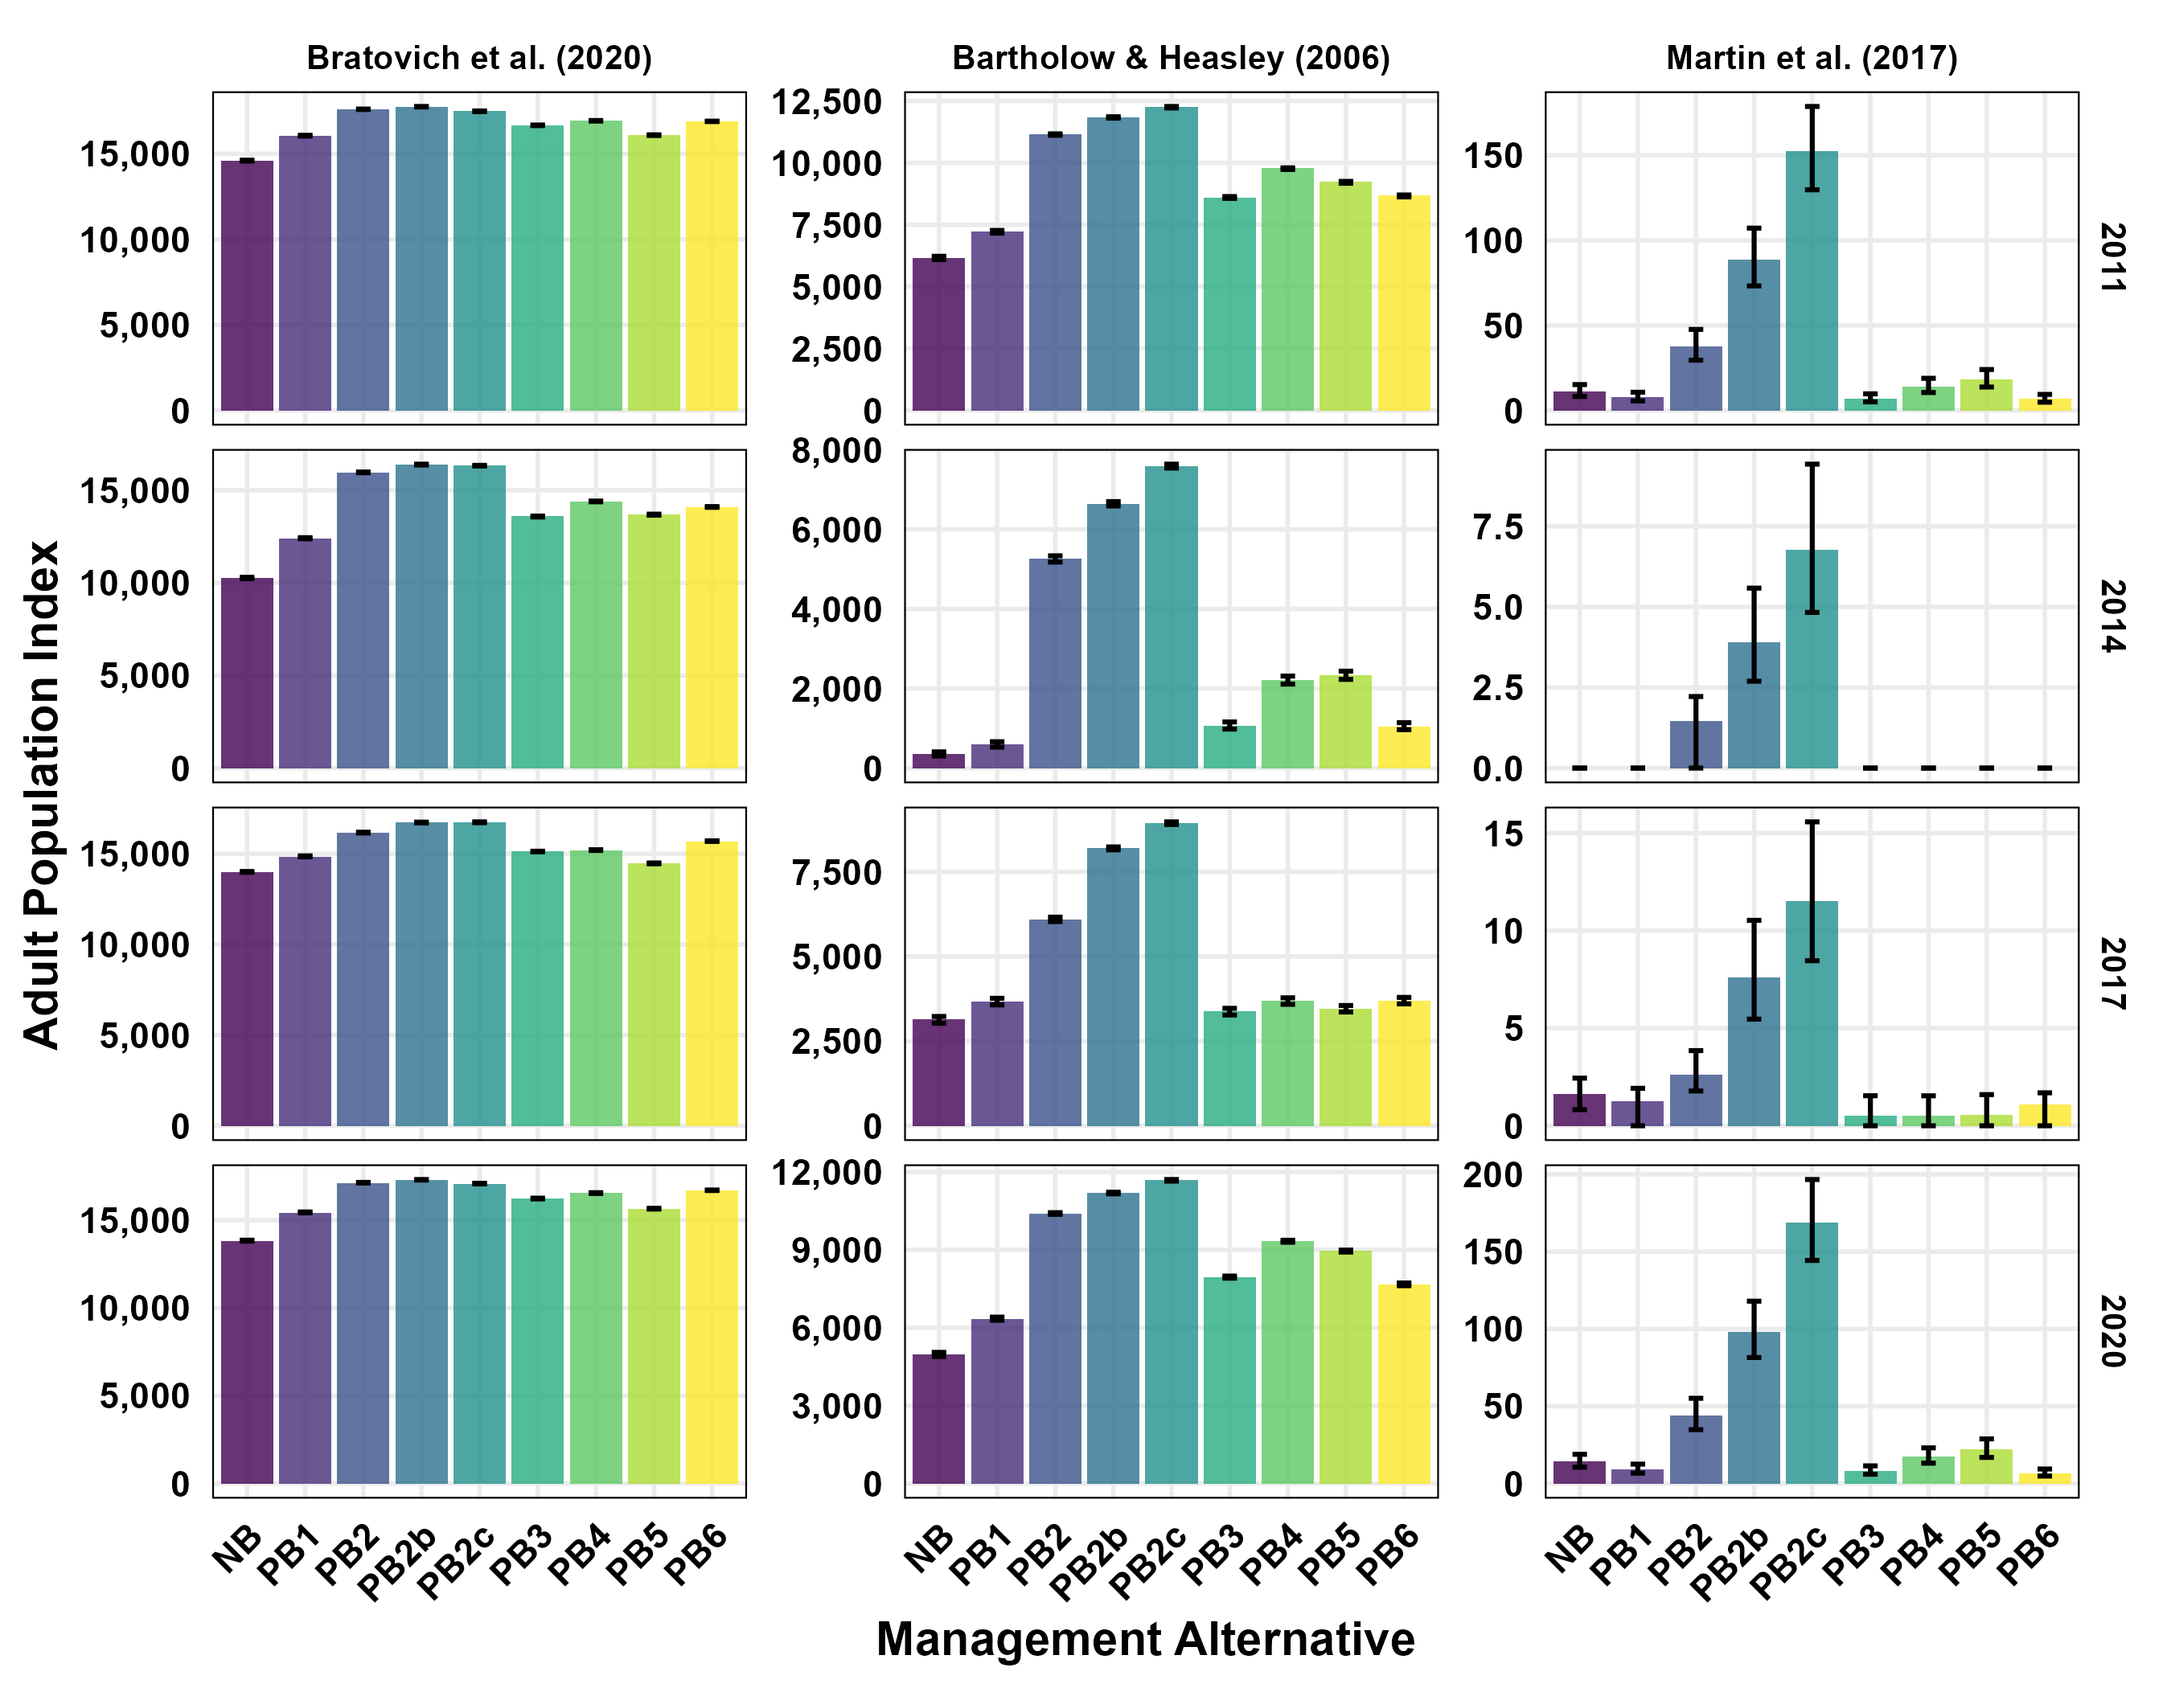
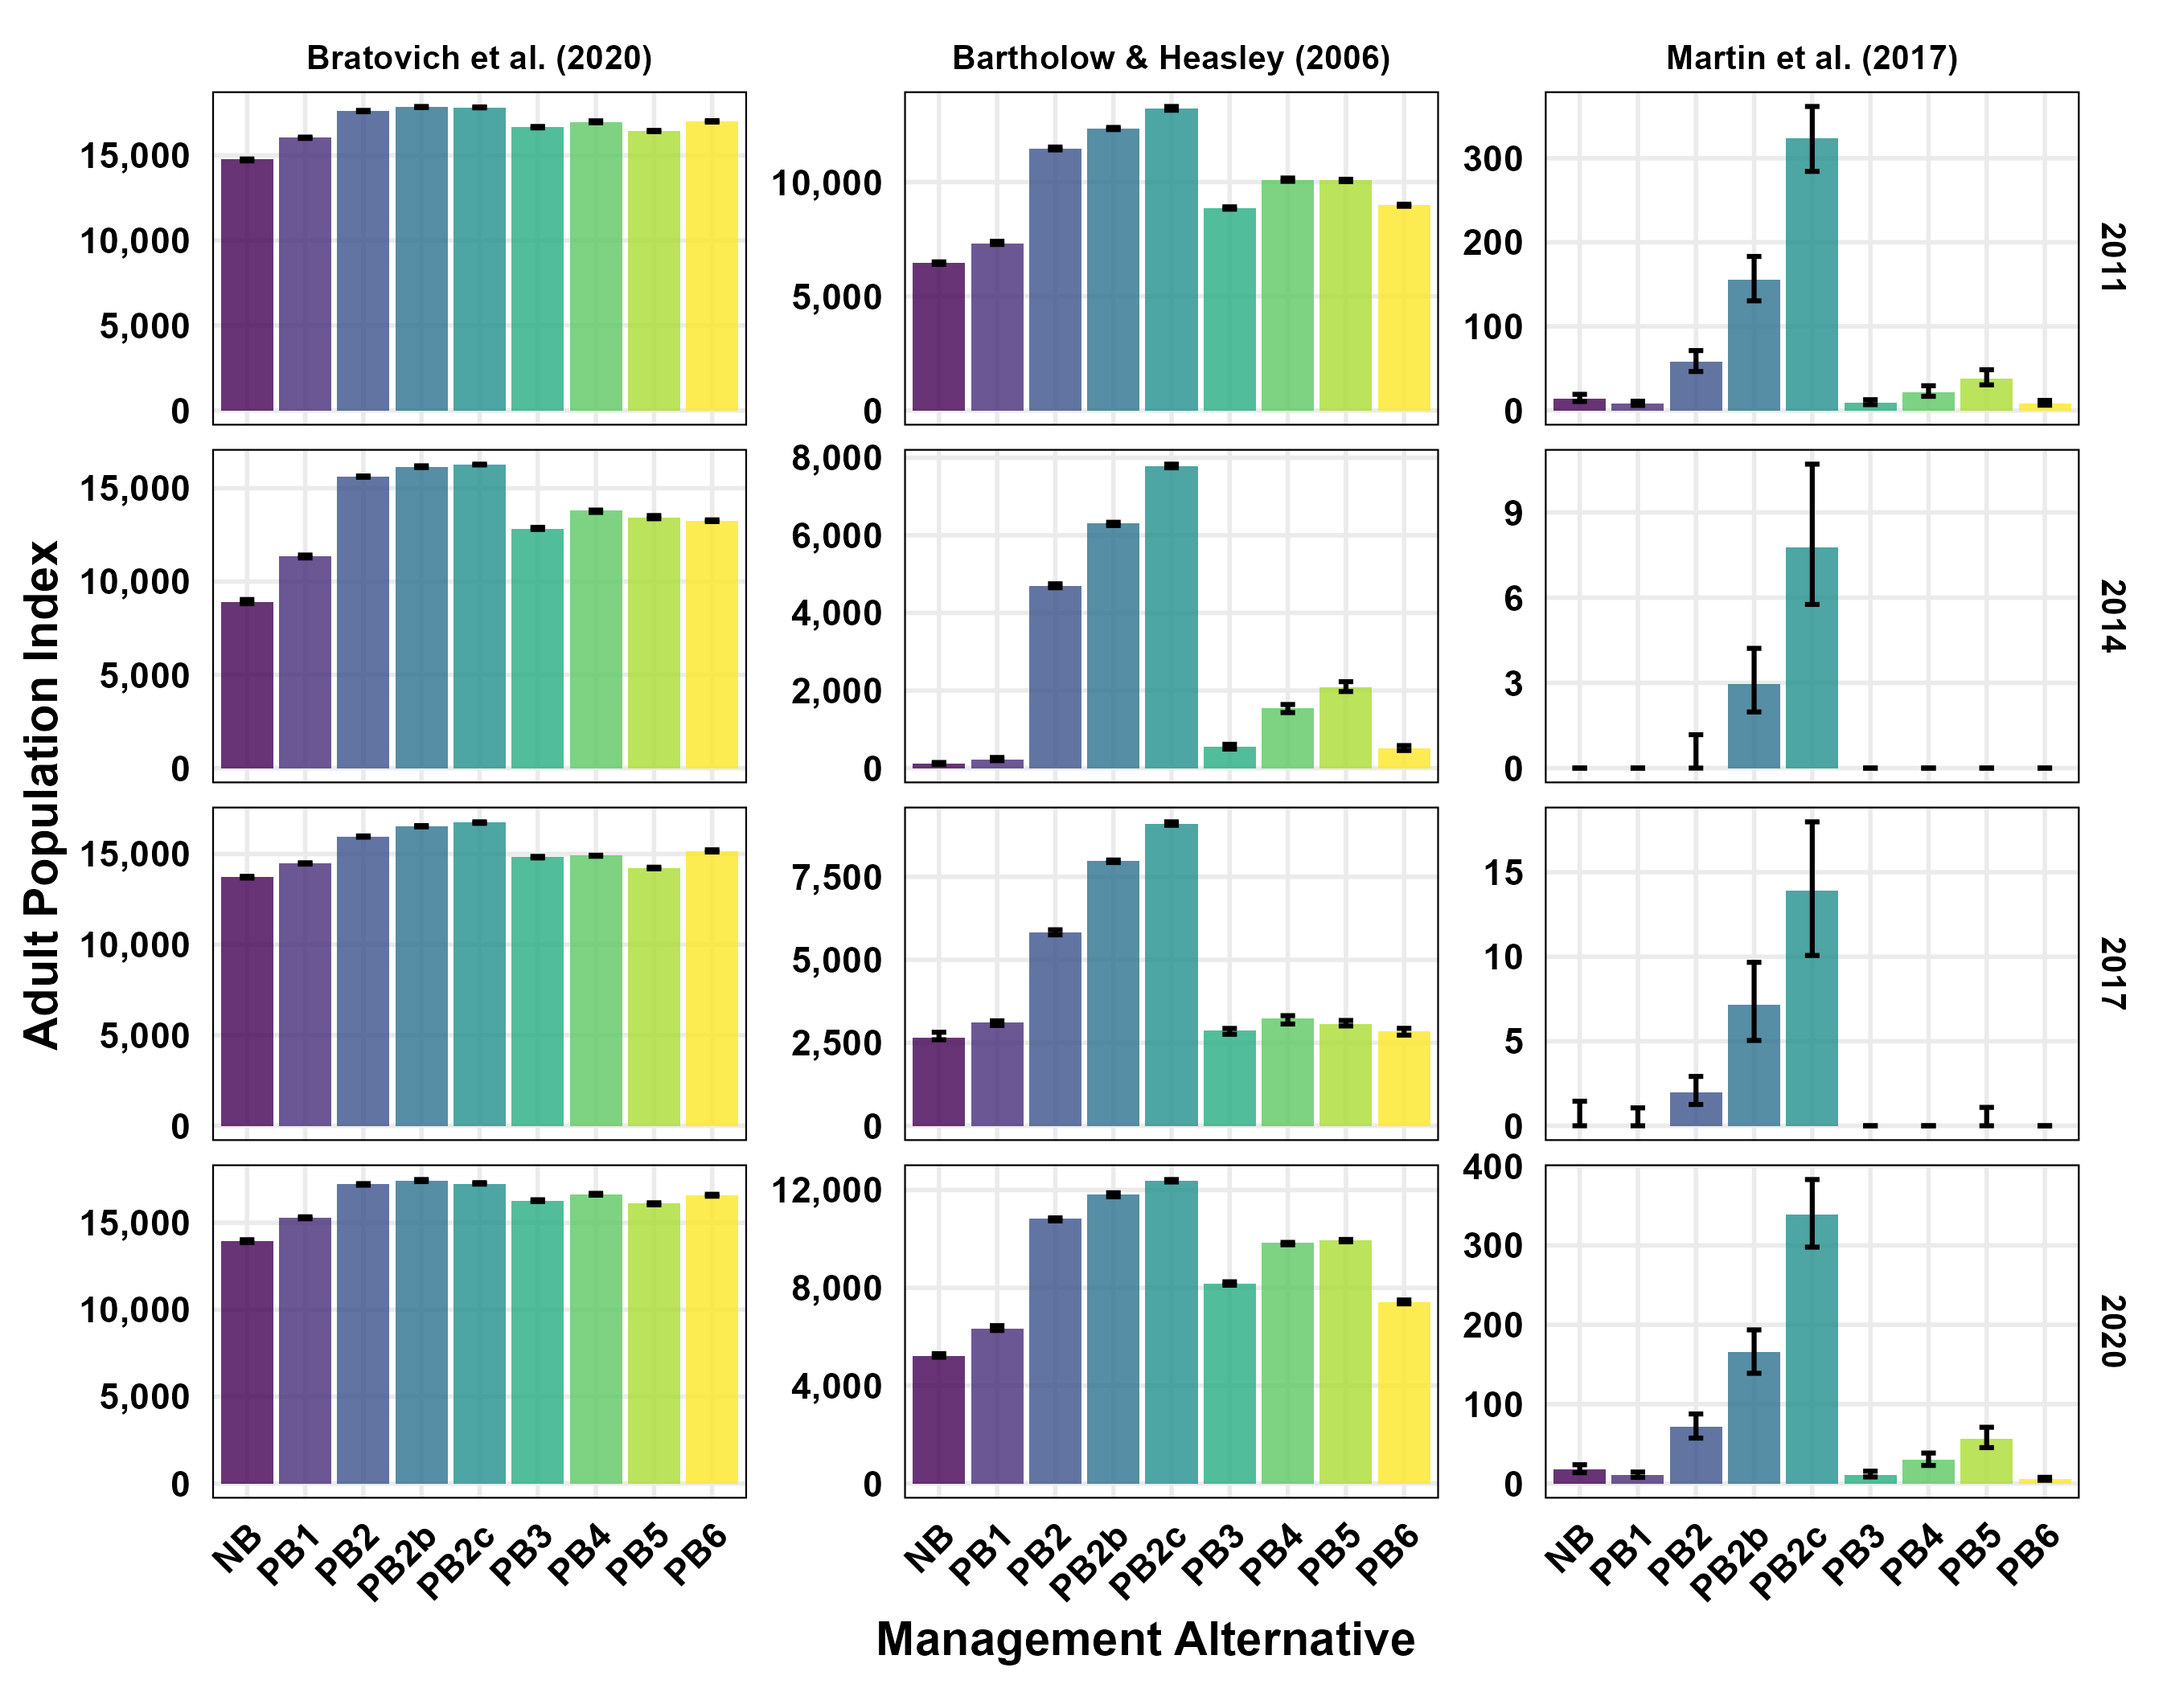
Regenerate Figure 4 (adult population index) under the corrected model
analysis/figures.R produces the spawner forecast barcharts, including the
climate-year x TDM-model facet grid that is Figure 4 in the manuscript. It is
absent from the README exhibit table, which is why it was missed in the first
regeneration pass — and it is the figure most directly exposed to G1, since it
plots the adult population index itself rather than a normalised score.

diff --git a/output/data_refresh_report_2026-08-14.md b/output/data_refresh_report_2026-08-14.md
@@ -1,0 +1,71 @@
+# Annual data refresh -- 14 August 2026
+
+**Mode: dry run.** Nothing will be written. Re-run with `--apply` to commit.
+
+## Sources
+
+| Source | Automatic | Snapshot |
+|---|---|---|
+| SacPAS Chinook Carcass Survey Detail | no -- manual | `SalmonCountR/app_data/carcassdet_1752789274_15.csv` |
+| SacPAS CDFW GrandTab Adult Escapement | no -- manual | `SalmonCountR/app_data/grandtab_1752793045_337.csv` |
+| SacPAS Water Year Hydrologic Classification Indices | no -- manual | `data_raw/hci_1753379372_198.csv` |
+| USGS NWIS instantaneous water temperature | no -- manual | `embedded in SalmonCountR/app_data/env_ext_list.rds` |
+| CE-QUAL-W2 power bypass scenario temperatures | no -- manual | `data_raw/SDM Power Bypass Temperature Modeling Results.xlsx` |
+| PHABSIM weighted usable area | no -- manual | `SalmonCountR/app_data/american_river_instream.rds` |
+| Coded wire tag releases and returns | no -- manual | `SalmonCountR/app_data/SAR LAR Releases.xlsx` |
+| Hydropower revenue loss by alternative | no -- manual | `hard-coded in analysis/mcda.R and SalmonCountR/app.R` |
+
+> No SacPAS query links are configured yet, so nothing can be downloaded
+> automatically. See the instructions at the top of `analysis/data_sources.R`:
+> tick **Generate Query Result Link Only** on each SacPAS query page, then
+> paste the link it produces into `DATA_SOURCES`. Until then this script
+> reports on the bundled snapshots only.
+
+## Current snapshots
+
+| Source | File | Modified | Size |
+|---|---|---|---|
+| SacPAS Chinook Carcass Survey Detail | `carcassdet_1752789274_15.csv` | 2026-07-28 | 957 KB |
+| SacPAS CDFW GrandTab Adult Escapement | `grandtab_1752793045_337.csv` | 2026-07-28 | 2 KB |
+| SacPAS Water Year Hydrologic Classification Indices | `hci_1753379372_198.csv` | 2026-07-28 | 13 KB |
+| USGS NWIS instantaneous water temperature | env_ext_list.rds | -- | not on disk |
+| CE-QUAL-W2 power bypass scenario temperatures | `SDM Power Bypass Temperature Modeling Results.xlsx` | 2026-07-28 | 106 KB |
+| PHABSIM weighted usable area | `american_river_instream.rds` | 2026-08-14 | 0 KB |
+| Coded wire tag releases and returns | `SAR LAR Releases.xlsx` | 2026-07-28 | 22 KB |
+| Hydropower revenue loss by alternative | app.R | -- | not on disk |
+
+## What changed
+
+- **Carcass survey detail**: no new download, nothing to compare.
+- **GrandTab escapement**: no new download, nothing to compare.
+- **Hydrologic index**: no new download, nothing to compare.
+
+## Calibration window
+
+- Escapement available through **2024**.
+- The model calibrates on **2011-2024**.
+- No new escapement years since the last calibration.
+
+## Spawn-timing model
+
+- Fitted 2026-07-28 on 10087 carcass observations, brood years 2011-2024.
+- Coefficients: Oct_std +0.1860, Nov_std -0.0698.
+- Refit with `Rscript analysis/build_spawn_timing_model.R` after new carcass data lands.
+
+## Actions
+
+- Nothing to apply.
+
+### Still to do by hand
+
+1. Re-run `SalmonCountR/precompute.R` start to finish in a clean session.
+   The redd draw is seeded but only reproducible on a full run.
+2. Re-run `analysis/build_spawn_timing_model.R`.
+3. Re-run `analysis/calibration_fit_statistics.R` and **look at the fit** before
+   accepting the new calibration. As of 2026-07-28 it was poor (R2 0.13,
+   Nash-Sutcliffe -0.59); see OUTSTANDING_ITEMS.md D1.
+4. Re-run `analysis/test_scenario_engine.R` and confirm it still passes.
+5. Regenerate figures if any published number moved.
+6. Drop the new CE-QUAL-W2 deliverable in `data_raw/` so the app's baseline
+   comparison uses the current year.
+
